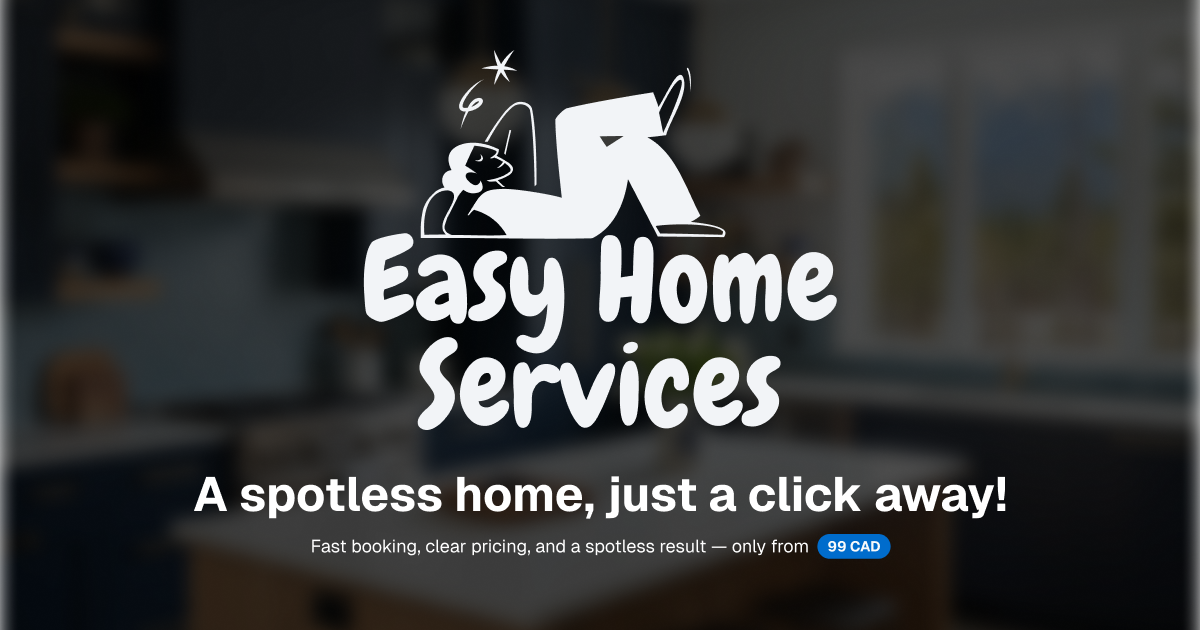
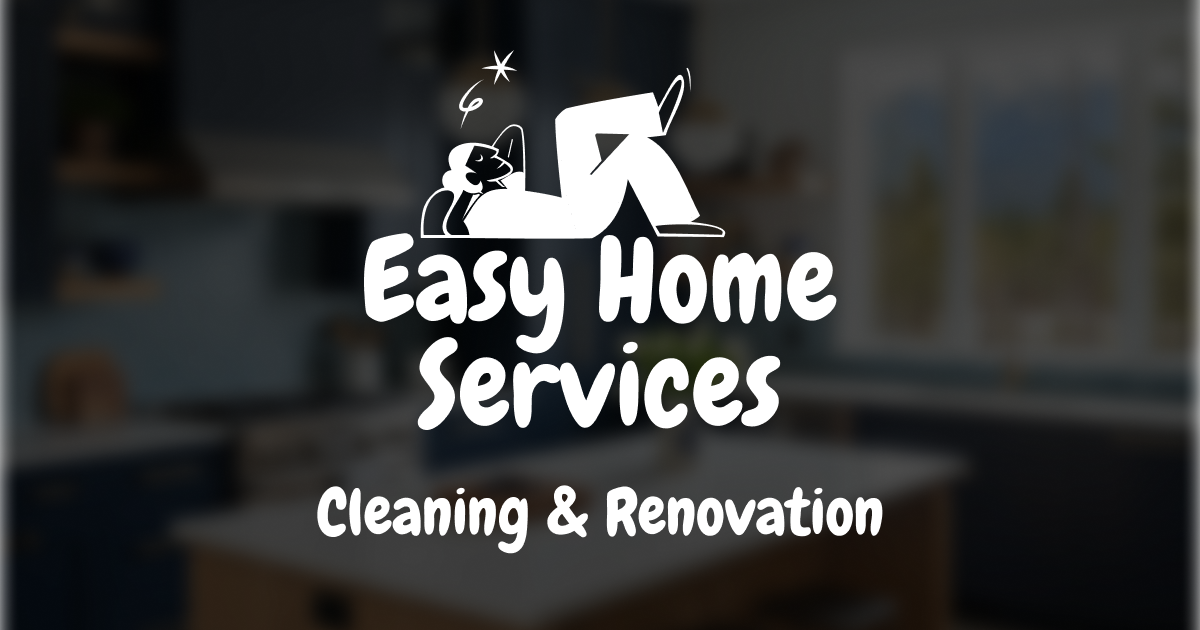
Update OG/X images, remove login/client area, fix jobber integration

diff --git a/landing/src/core/services/jobberService.ts b/landing/src/core/services/jobberService.ts
@@ -1,3 +1,4 @@
+import { fetchServices } from "@/core/api/services";
 import { CreateOrderRequest } from "@/core/forms/orders/create";
 
 import jobberClient from "./jobberClient";
@@ -10,6 +11,15 @@ import { CreateJobberOrderResult } from "./jobberTypes";
 export async function createJobberOrder(orderData: CreateOrderRequest): Promise<CreateJobberOrderResult> {
   try {
     const { meta, datetime } = orderData;
+
+    // Fetch service pricing details (extra room/bath/kitchen unit prices come from Strapi)
+    const services = await fetchServices();
+    const selectedService = services.find((s) => s.slug === meta.service.slug);
+    if (!selectedService) {
+      console.warn(
+        `Jobber: Service not found in Strapi for slug '${meta.service.slug}'. Extra line items may be missing.`
+      );
+    }
 
     // Get a valid access token (will refresh if needed)
     const accessToken = await jobberTokenManager.getValidAccessToken();
@@ -37,7 +47,29 @@ export async function createJobberOrder(orderData: CreateOrderRequest): Promise<
       });
     }
 
-    // Step 3: Build line items from service and addons
+    // Step 3: Build line items from service, additional rooms/baths/kitchens, and addons
+    const hasBaseRooms = ["standard", "deep", "move-in", "after-renovation"].includes(meta.service.slug);
+    const isStairwellsService = meta.service.slug === "staircases";
+    const isOfficeService = meta.service.slug === "office";
+    const isWindowsService = meta.service.slug === "windows";
+    const isKitchenService = meta.service.slug === "kitchen";
+    const isRenovationsService = meta.service.slug === "renovations";
+
+    const excludeRoomsCost = isStairwellsService || isOfficeService || isWindowsService || isRenovationsService;
+    const excludeBathroomKitchenCost = isStairwellsService || isWindowsService || isRenovationsService;
+
+    const chargeableRooms = excludeRoomsCost ? 0 : hasBaseRooms ? Math.max(0, meta.extra_rooms - 1) : meta.extra_rooms;
+    const chargeableBathrooms = excludeBathroomKitchenCost
+      ? 0
+      : hasBaseRooms
+        ? Math.max(0, meta.extra_bathrooms - 1)
+        : meta.extra_bathrooms;
+    const chargeableKitchens = excludeBathroomKitchenCost
+      ? 0
+      : hasBaseRooms || isKitchenService
+        ? Math.max(0, meta.extra_kitchens - 1)
+        : meta.extra_kitchens;
+
     const lineItems = [
       {
         name: meta.service.name,
@@ -45,6 +77,36 @@ export async function createJobberOrder(orderData: CreateOrderRequest): Promise<
         unitCost: meta.service.price,
         quantity: 1,
       },
+      ...(chargeableRooms > 0
+        ? [
+            {
+              name: "Extra Rooms",
+              description: "",
+              unitCost: selectedService?.extra_bedroom_price ?? 0,
+              quantity: chargeableRooms,
+            },
+          ]
+        : []),
+      ...(chargeableBathrooms > 0
+        ? [
+            {
+              name: "Extra Bathrooms",
+              description: "",
+              unitCost: selectedService?.extra_bathroom_price ?? 0,
+              quantity: chargeableBathrooms,
+            },
+          ]
+        : []),
+      ...(chargeableKitchens > 0
+        ? [
+            {
+              name: "Extra Kitchens",
+              description: "",
+              unitCost: selectedService?.extra_kitchen_price ?? 0,
+              quantity: chargeableKitchens,
+            },
+          ]
+        : []),
       ...meta.addons.map((addon) => ({
         name: addon.name,
         description: "",

diff --git a/landing/src/core/services/jobberClient.ts b/landing/src/core/services/jobberClient.ts
@@ -243,9 +243,6 @@ class JobberClient {
       };
     }
   ): Promise<string> {
-    // Combine street1 and street2 into a single street field
-    const street = input.address.street2 ? `${input.address.street1}, ${input.address.street2}` : input.address.street1;
-
     const mutation = `
       mutation PropertyCreate($clientId: EncodedId!, $input: PropertyCreateInput!) {
         propertyCreate(clientId: $clientId, input: $input) {
@@ -278,11 +275,11 @@ class JobberClient {
       input: {
         properties: [
           {
-            name: "Client's Property",
+            //name: "Client's Property",
             address: {
-              street1: street,
-              street2: street,
-              city: input.address.city,
+              street1: input.address.street1,
+              street2: input.address.street2 ?? "",
+              city: capitalize(input.address.city),
               country: "Canada",
               province: input.address.province,
               postalCode: input.address.postalCode,
@@ -302,6 +299,10 @@ class JobberClient {
 
     return result.propertyCreate.properties[0].id;
   }
+}
+
+function capitalize(val: string) {
+  return val.charAt(0).toUpperCase() + val.slice(1);
 }
 
 const jobberClient = new JobberClient();
